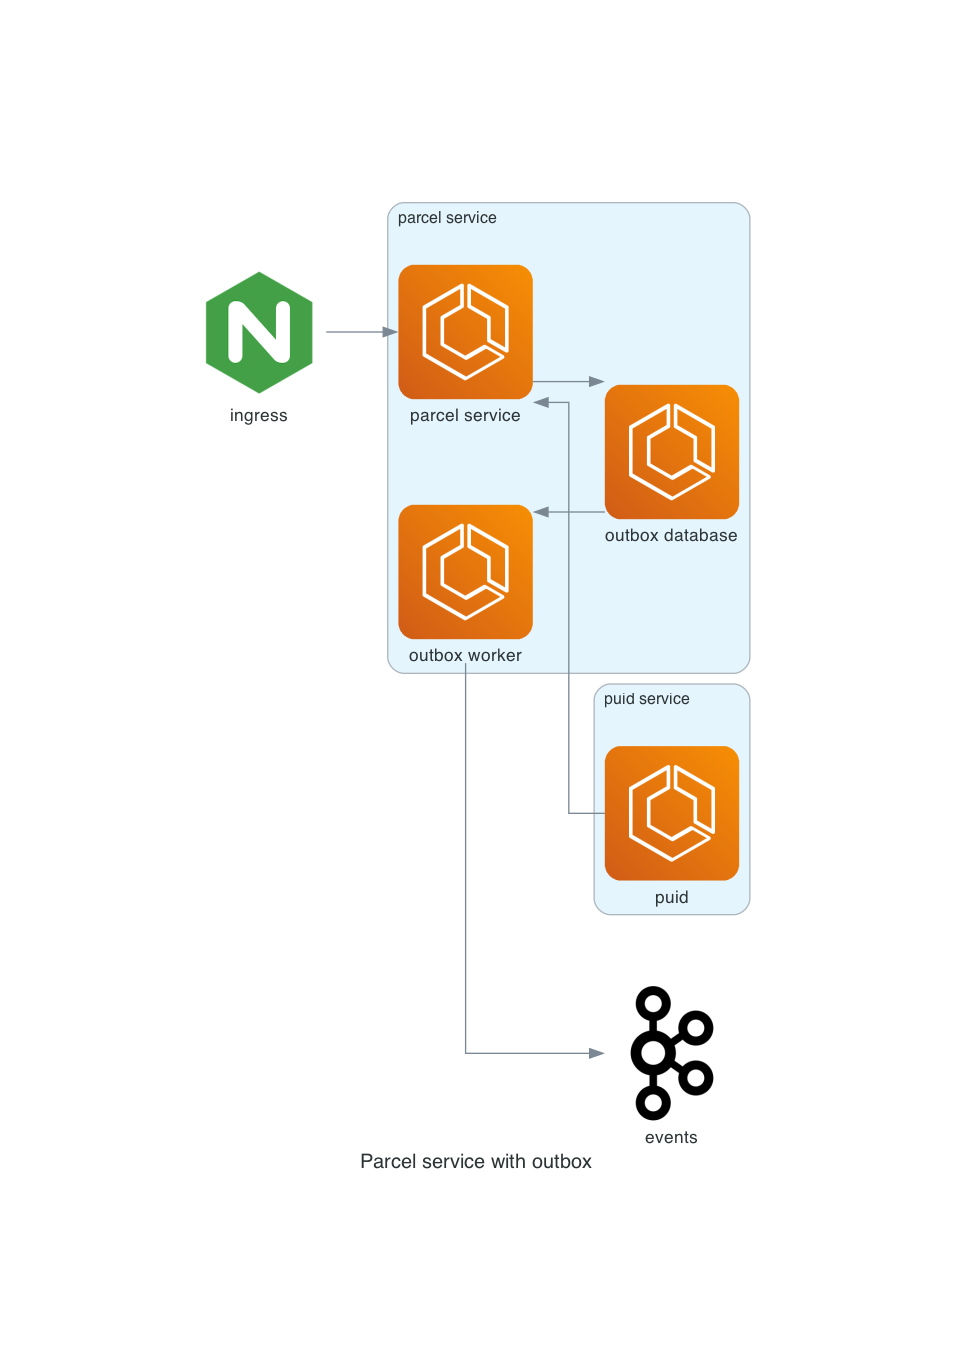
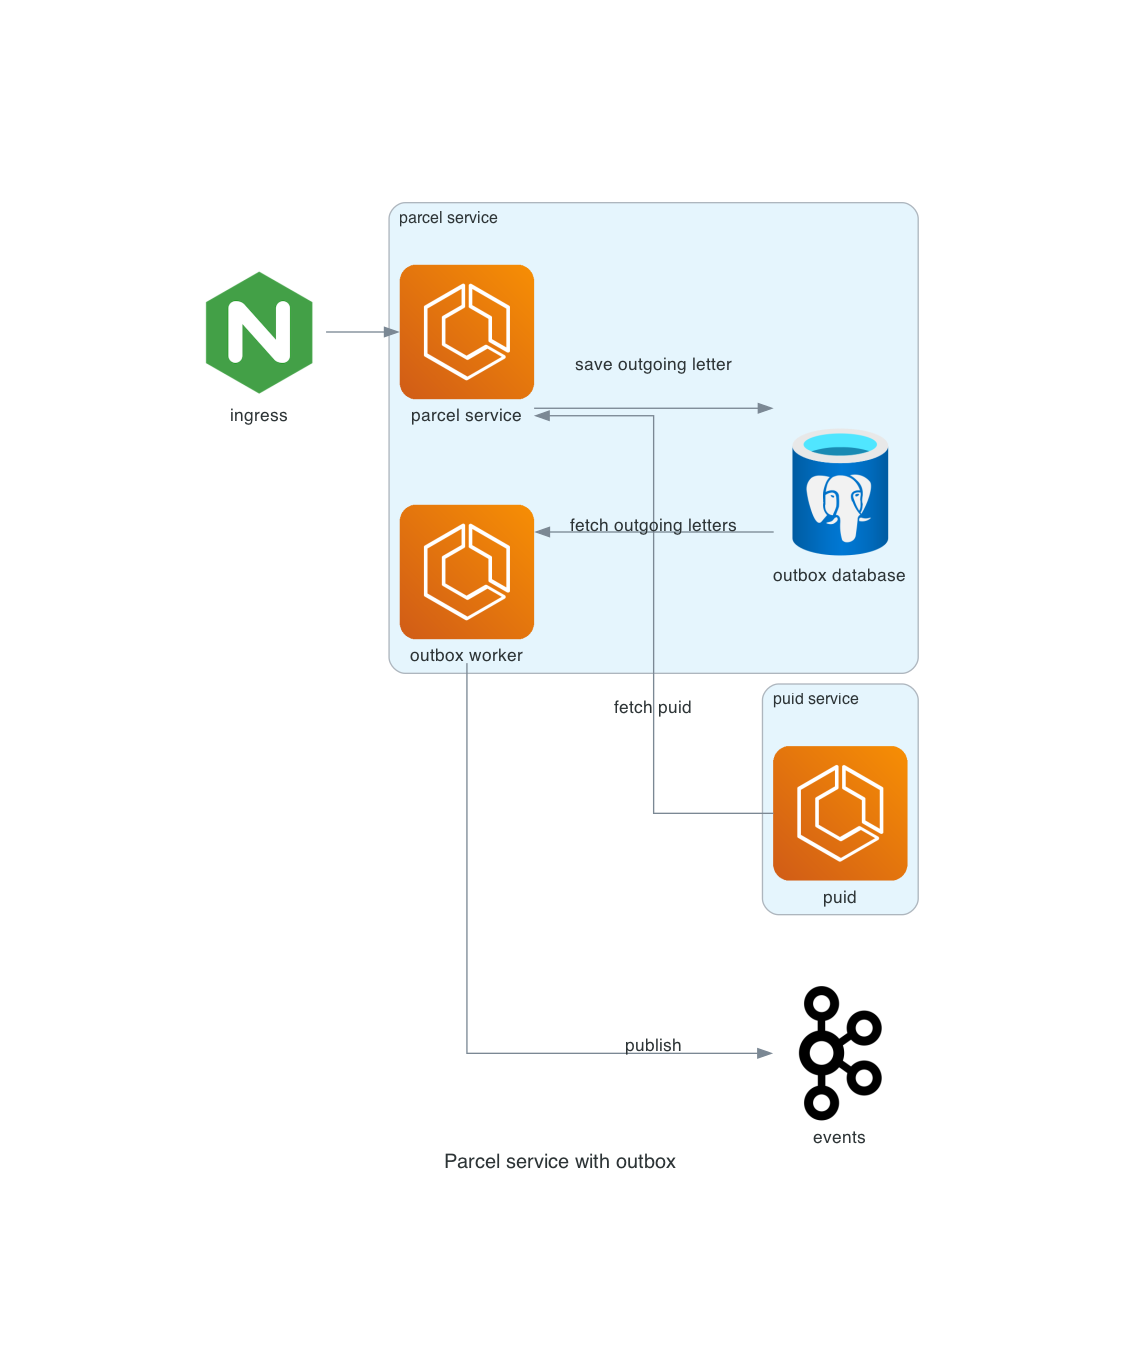
docs: todo graph as a code

diff --git a/docs/diagrams/diagram.py b/docs/diagrams/diagram.py
@@ -1,7 +1,8 @@
-from diagrams import Cluster, Diagram
+from diagrams import Cluster, Diagram, Edge
 from diagrams.aws.compute import ECS
 from diagrams.onprem.queue import Kafka
 from diagrams.onprem.network import Nginx
+from diagrams.azure.database import DatabaseForPostgresqlServers
 
 show_image = True
 
@@ -9,22 +10,21 @@ with Diagram("Parcel service with outbox", show=show_image):
 
     ingres =  Nginx("ingress")
 
-    with Cluster("parcel service"): 
-        parcel_service = ECS("parcel service") 
-        outbox_database = ECS("outbox database")
-        outbox_worker = ECS("outbox worker")
-    
     with Cluster("puid service"):
         puid_service = ECS("puid")
+
+    with Cluster("parcel service"): 
+        parcel_service = ECS("parcel service") 
+        outbox_database = DatabaseForPostgresqlServers("outbox database")
+        outbox_worker = ECS("outbox worker")
 
     event_bus = Kafka("events")
 
 
-
     ingres >> parcel_service
-    parcel_service << puid_service
-    parcel_service >> outbox_database
+    parcel_service << Edge(label = "fetch puid") << puid_service
+    parcel_service >> Edge(label = "save outgoing letter") >> outbox_database
     
 
-    outbox_worker << outbox_database
-    outbox_worker >> event_bus
+    outbox_worker << Edge(label = "fetch outgoing letters") << outbox_database
+    outbox_worker >> Edge(label = "publish") >> event_bus
